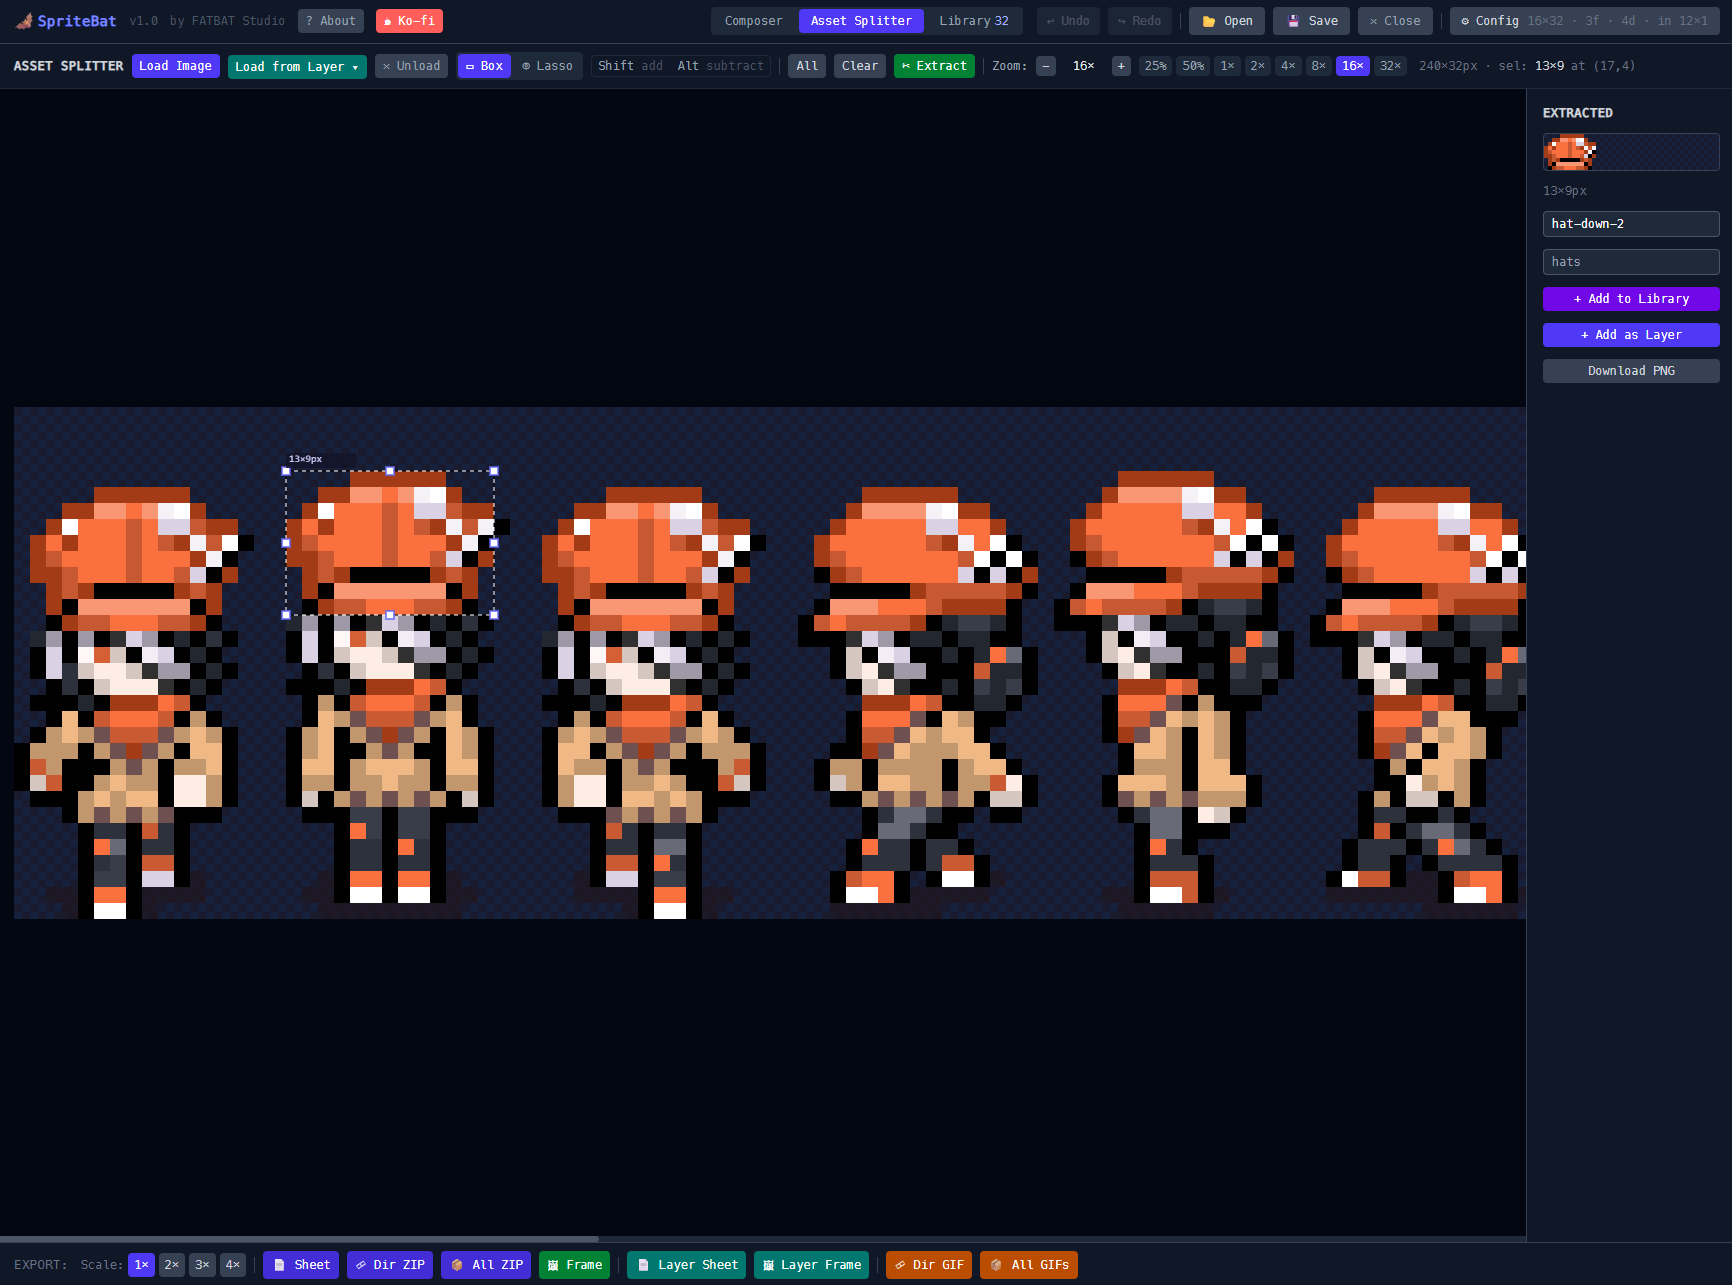
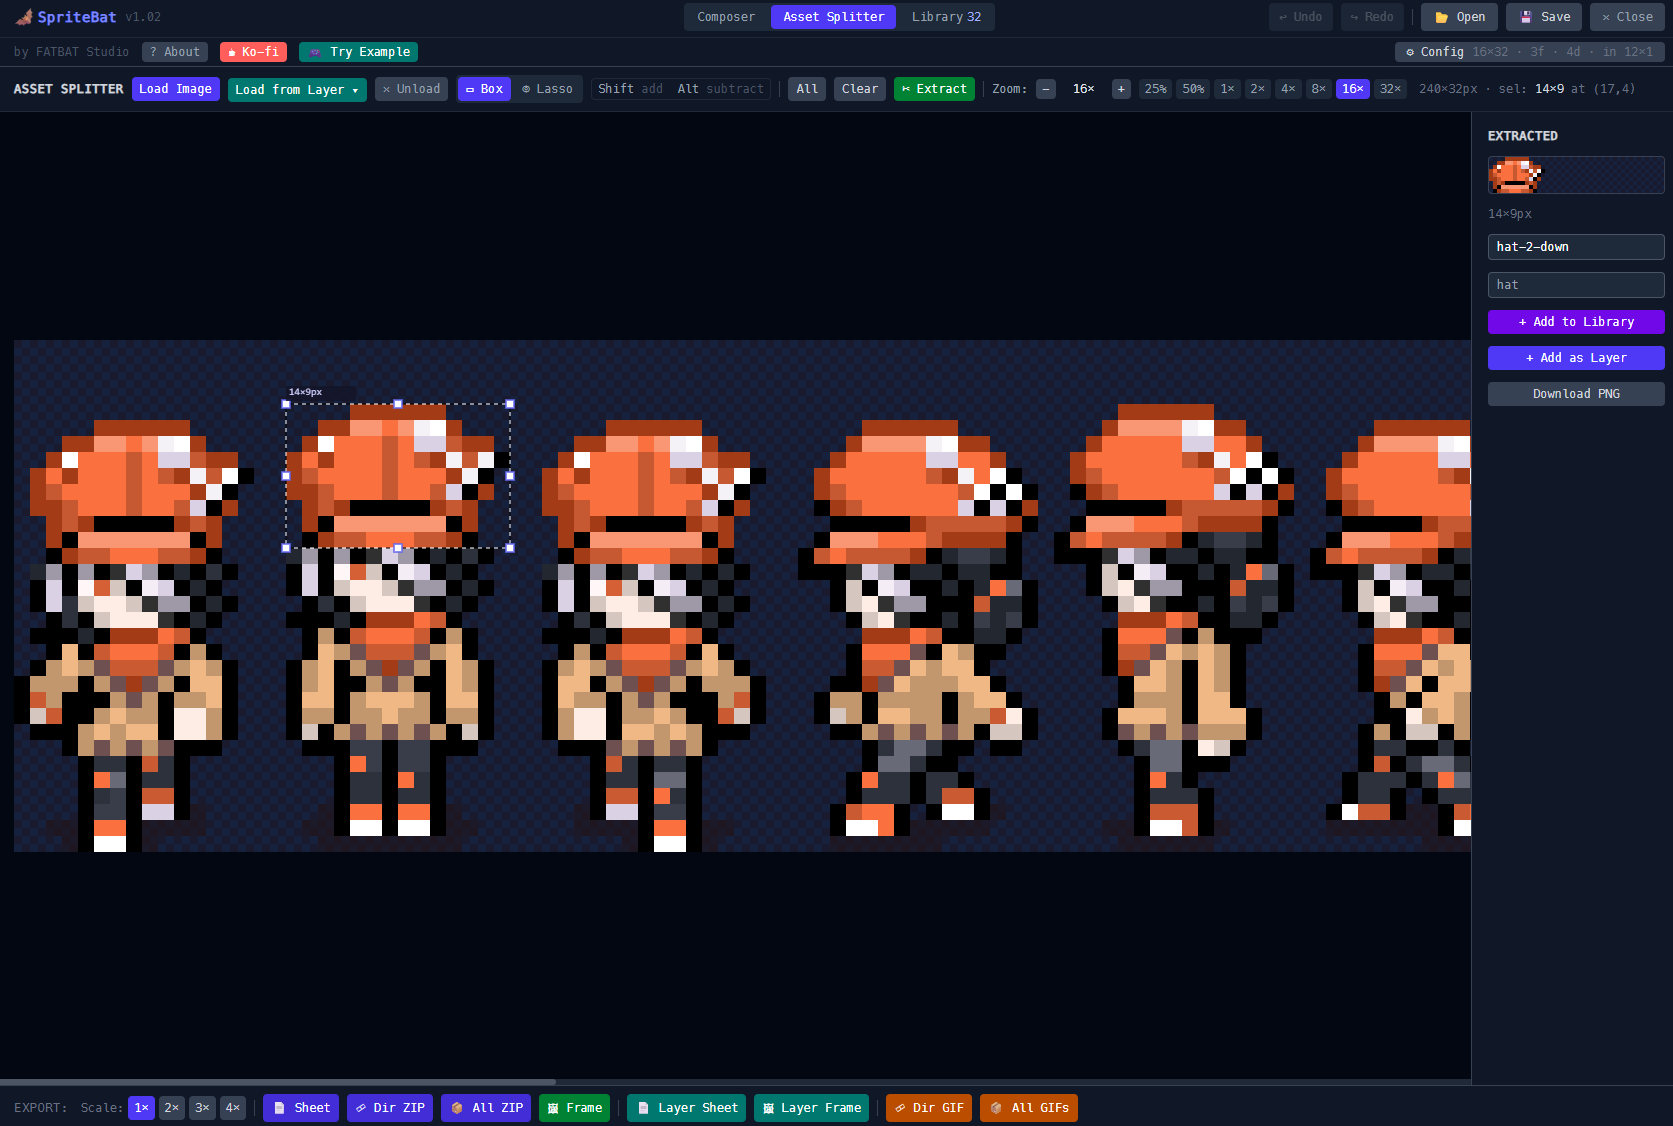
updated to version 1.02, fixed UI on smaller screens

Changed region(s): [[0.0, 0.0, 0.9946, 0.7771], [0.0, 0.9325, 0.8703, 1.0]]

diff --git a/src/App.tsx b/src/App.tsx
@@ -194,142 +194,149 @@ function App() {
 
   return (
     <div className="flex flex-col h-screen bg-gray-950 text-gray-100 overflow-hidden select-none">
-      {/* ── Top header bar ── */}
-      <header className="relative flex items-center px-4 py-2 bg-gray-900 border-b border-gray-700 flex-shrink-0">
-        <div className="flex items-center gap-3">
-          <span className="font-bold text-indigo-400 text-sm tracking-wide flex items-center gap-1"><img src="/bat-emoji.png" alt="🦇" className="w-5 h-5" style={{ imageRendering: 'auto' }} /> SpriteBat</span>
-          <span className="text-gray-600 text-xs">v1.01</span>
-          <a href="https://eidolware.com/about/" target="_blank" rel="noopener noreferrer" className="text-gray-600 hover:text-gray-400 text-xs transition-colors">by FATBAT Studio</a>
-          <button
-            onClick={() => setShowAbout(true)}
-            className="text-xs bg-gray-700 hover:bg-gray-600 text-gray-400 hover:text-white px-2 py-1 rounded transition-colors"
-            title="About SpriteBat"
-          >
-            ? About
-          </button>
-          <a
-            href="https://ko-fi.com/fatbatstudio"
-            target="_blank"
-            rel="noopener noreferrer"
-            className="text-xs bg-[#FF5E5B] hover:bg-[#e04e4b] text-white px-2 py-1 rounded transition-colors"
-            title="Support on Ko-fi"
-          >
-            ☕ Ko-fi
-          </a>
-          <button
-            onClick={() => setShowTutorial(true)}
-            className="text-xs bg-teal-700 hover:bg-teal-600 text-white px-2 py-1 rounded transition-colors"
-            title="Load an example project to explore SpriteBat"
-          >
-            🎮 Try Example
-          </button>
-        </div>
+      {/* ── Top header bar (two rows) ── */}
+      <header className="flex flex-col bg-gray-900 border-b border-gray-700 flex-shrink-0">
+        {/* Row 1: Logo + Tabs + Project actions */}
+        <div className="flex items-center px-4 py-1.5">
+          {/* Left: branding */}
+          <div className="flex-1 flex items-center gap-2">
+            <span className="font-bold text-indigo-400 text-sm tracking-wide flex items-center gap-1"><img src="/bat-emoji.png" alt="🦇" className="w-5 h-5" style={{ imageRendering: 'auto' }} /> SpriteBat</span>
+            <span className="text-gray-600 text-xs">v1.02</span>
+          </div>
 
-        {/* Tab switcher — absolutely centred so it's always in the middle of the bar */}
-        <div className="absolute left-1/2 -translate-x-1/2 flex gap-1 bg-gray-800 p-0.5 rounded">
-          <button
-            onClick={() => typedDispatch({ type: 'SET_TAB', tab: 'composer' })}
-            className={`text-xs px-3 py-1 rounded transition-colors ${
-              state.activeTab === 'composer'
-                ? 'bg-indigo-600 text-white'
-                : 'text-gray-400 hover:text-white'
-            }`}
-          >
-            Composer
-          </button>
-          <button
-            onClick={() => typedDispatch({ type: 'SET_TAB', tab: 'splitter' })}
-            className={`text-xs px-3 py-1 rounded transition-colors ${
-              state.activeTab === 'splitter'
-                ? 'bg-indigo-600 text-white'
-                : 'text-gray-400 hover:text-white'
-            }`}
-          >
-            Asset Splitter
-          </button>
-          <button
-            onClick={() => typedDispatch({ type: 'SET_TAB', tab: 'library' })}
-            className={`text-xs px-3 py-1 rounded transition-colors ${
-              state.activeTab === 'library'
-                ? 'bg-indigo-600 text-white'
-                : 'text-gray-400 hover:text-white'
-            }`}
-          >
-            Library
-            {state.library.length > 0 && (
-              <span className="ml-1 text-indigo-300 tabular-nums">{state.library.length}</span>
+          {/* Center: tab switcher */}
+          <div className="flex justify-center">
+            <div className="flex gap-1 bg-gray-800 p-0.5 rounded">
+              <button
+                onClick={() => typedDispatch({ type: 'SET_TAB', tab: 'composer' })}
+                className={`text-xs px-3 py-1 rounded transition-colors ${
+                  state.activeTab === 'composer'
+                    ? 'bg-indigo-600 text-white'
+                    : 'text-gray-400 hover:text-white'
+                }`}
+              >
+                Composer
+              </button>
+              <button
+                onClick={() => typedDispatch({ type: 'SET_TAB', tab: 'splitter' })}
+                className={`text-xs px-3 py-1 rounded transition-colors ${
+                  state.activeTab === 'splitter'
+                    ? 'bg-indigo-600 text-white'
+                    : 'text-gray-400 hover:text-white'
+                }`}
+              >
+                Asset Splitter
+              </button>
+              <button
+                onClick={() => typedDispatch({ type: 'SET_TAB', tab: 'library' })}
+                className={`text-xs px-3 py-1 rounded transition-colors ${
+                  state.activeTab === 'library'
+                    ? 'bg-indigo-600 text-white'
+                    : 'text-gray-400 hover:text-white'
+                }`}
+              >
+                Library
+                {state.library.length > 0 && (
+                  <span className="ml-1 text-indigo-300 tabular-nums">{state.library.length}</span>
+                )}
+              </button>
+            </div>
+          </div>
+
+          {/* Right: undo/redo + project actions */}
+          <div className="flex-1 flex items-center gap-2 justify-end">
+            <button
+              onClick={() => typedDispatch({ type: 'UNDO' })}
+              disabled={!canUndo}
+              className="text-xs bg-gray-700 hover:bg-gray-600 disabled:opacity-30 disabled:cursor-not-allowed text-gray-300 px-2.5 py-1.5 rounded flex items-center gap-1"
+              title={`Undo (Ctrl+Z) — ${undoState.past.length} step${undoState.past.length !== 1 ? 's' : ''} available`}
+            >
+              ↩ Undo
+            </button>
+            <button
+              onClick={() => typedDispatch({ type: 'REDO' })}
+              disabled={!canRedo}
+              className="text-xs bg-gray-700 hover:bg-gray-600 disabled:opacity-30 disabled:cursor-not-allowed text-gray-300 px-2.5 py-1.5 rounded flex items-center gap-1"
+              title={`Redo (Ctrl+Y) — ${undoState.future.length} step${undoState.future.length !== 1 ? 's' : ''} available`}
+            >
+              ↪ Redo
+            </button>
+
+            <div className="w-px h-4 bg-gray-700" />
+
+            {projectError && (
+              <span className="text-xs text-red-400">{projectError}</span>
             )}
-          </button>
+
+            <input
+              ref={loadInputRef}
+              type="file"
+              accept=".spritebat"
+              className="hidden"
+              onChange={handleLoad}
+            />
+
+            <button
+              onClick={() => loadInputRef.current?.click()}
+              disabled={!!projectBusy}
+              className="text-xs bg-gray-700 hover:bg-gray-600 disabled:opacity-50 text-gray-300 px-3 py-1.5 rounded flex items-center gap-1"
+              title="Open a .spritebat project file"
+            >
+              {projectBusy === 'loading' ? '⏳' : '📂'} Open
+            </button>
+
+            <button
+              onClick={handleSave}
+              disabled={!!projectBusy || (state.layers.length === 0 && state.library.length === 0)}
+              className="text-xs bg-gray-700 hover:bg-gray-600 disabled:opacity-50 text-gray-300 px-3 py-1.5 rounded flex items-center gap-1"
+              title="Save project as .spritebat"
+            >
+              {projectBusy === 'saving' ? '⏳' : '💾'} Save
+            </button>
+
+            <button
+              onClick={handleClose}
+              disabled={!!projectBusy}
+              className="text-xs bg-gray-700 hover:bg-red-900 hover:text-red-300 disabled:opacity-50 text-gray-400 px-3 py-1.5 rounded flex items-center gap-1"
+              title="Close project — clears all layers and library"
+            >
+              ✕ Close
+            </button>
+          </div>
         </div>
 
-        <div className="flex items-center gap-2 ml-auto">
-          {/* Undo / Redo */}
-          <button
-            onClick={() => typedDispatch({ type: 'UNDO' })}
-            disabled={!canUndo}
-            className="text-xs bg-gray-700 hover:bg-gray-600 disabled:opacity-30 disabled:cursor-not-allowed text-gray-300 px-2.5 py-1.5 rounded flex items-center gap-1"
-            title={`Undo (Ctrl+Z) — ${undoState.past.length} step${undoState.past.length !== 1 ? 's' : ''} available`}
-          >
-            ↩ Undo
-          </button>
-          <button
-            onClick={() => typedDispatch({ type: 'REDO' })}
-            disabled={!canRedo}
-            className="text-xs bg-gray-700 hover:bg-gray-600 disabled:opacity-30 disabled:cursor-not-allowed text-gray-300 px-2.5 py-1.5 rounded flex items-center gap-1"
-            title={`Redo (Ctrl+Y) — ${undoState.future.length} step${undoState.future.length !== 1 ? 's' : ''} available`}
-          >
-            ↪ Redo
-          </button>
+        {/* Row 2: Secondary links + Config */}
+        <div className="flex items-center justify-between px-4 py-1 border-t border-gray-800">
+          <div className="flex items-center gap-3">
+            <a href="https://eidolware.com/about/" target="_blank" rel="noopener noreferrer" className="text-gray-600 hover:text-gray-400 text-xs transition-colors">by FATBAT Studio</a>
+            <button
+              onClick={() => setShowAbout(true)}
+              className="text-xs bg-gray-700 hover:bg-gray-600 text-gray-400 hover:text-white px-2 py-0.5 rounded transition-colors"
+              title="About SpriteBat"
+            >
+              ? About
+            </button>
+            <a
+              href="https://ko-fi.com/fatbatstudio"
+              target="_blank"
+              rel="noopener noreferrer"
+              className="text-xs bg-[#FF5E5B] hover:bg-[#e04e4b] text-white px-2 py-0.5 rounded transition-colors"
+              title="Support on Ko-fi"
+            >
+              ☕ Ko-fi
+            </a>
+            <button
+              onClick={() => setShowTutorial(true)}
+              className="text-xs bg-teal-700 hover:bg-teal-600 text-white px-2 py-0.5 rounded transition-colors"
+              title="Load an example project to explore SpriteBat"
+            >
+              🎮 Try Example
+            </button>
+          </div>
 
-          <div className="w-px h-4 bg-gray-700" />
-
-          {/* Save / Load project */}
-          {projectError && (
-            <span className="text-xs text-red-400">{projectError}</span>
-          )}
-
-          {/* Hidden file input for loading */}
-          <input
-            ref={loadInputRef}
-            type="file"
-            accept=".spritebat"
-            className="hidden"
-            onChange={handleLoad}
-          />
-
-          <button
-            onClick={() => loadInputRef.current?.click()}
-            disabled={!!projectBusy}
-            className="text-xs bg-gray-700 hover:bg-gray-600 disabled:opacity-50 text-gray-300 px-3 py-1.5 rounded flex items-center gap-1"
-            title="Open a .spritebat project file"
-          >
-            {projectBusy === 'loading' ? '⏳' : '📂'} Open
-          </button>
-
-          <button
-            onClick={handleSave}
-            disabled={!!projectBusy || (state.layers.length === 0 && state.library.length === 0)}
-            className="text-xs bg-gray-700 hover:bg-gray-600 disabled:opacity-50 text-gray-300 px-3 py-1.5 rounded flex items-center gap-1"
-            title="Save project as .spritebat"
-          >
-            {projectBusy === 'saving' ? '⏳' : '💾'} Save
-          </button>
-
-          <button
-            onClick={handleClose}
-            disabled={!!projectBusy}
-            className="text-xs bg-gray-700 hover:bg-red-900 hover:text-red-300 disabled:opacity-50 text-gray-400 px-3 py-1.5 rounded flex items-center gap-1"
-            title="Close project — clears all layers and library"
-          >
-            ✕ Close
-          </button>
-
-          <div className="w-px h-4 bg-gray-700" />
-
-          {/* Project config button */}
           <button
             onClick={() => typedDispatch({ type: 'TOGGLE_CONFIG' })}
-            className="text-xs bg-gray-700 hover:bg-gray-600 text-gray-300 px-3 py-1.5 rounded flex items-center gap-1"
+            className="text-xs bg-gray-700 hover:bg-gray-600 text-gray-300 px-3 py-0.5 rounded flex items-center gap-1"
           >
             ⚙ Config
             <span className="text-gray-500 ml-1">
@@ -397,12 +404,12 @@ function App() {
           className="fixed inset-0 z-50 flex items-center justify-center bg-black/60"
           onClick={e => e.target === e.currentTarget && setShowAbout(false)}
         >
-          <div className="bg-gray-900 border border-gray-700 rounded-xl shadow-2xl flex flex-col gap-4 p-6" style={{ maxWidth: 520, width: '90vw' }}>
+          <div className="bg-gray-900 border border-gray-700 rounded-xl shadow-2xl flex flex-col gap-4 p-6" style={{ maxWidth: 680, width: '90vw' }}>
             <div className="flex items-center justify-between">
               <div className="flex items-center gap-2">
                 <img src="/bat-emoji.png" alt="🦇" className="w-6 h-6" style={{ imageRendering: 'auto' }} />
                 <span className="font-bold text-indigo-400 text-base tracking-wide">SpriteBat</span>
-                <span className="text-gray-500 text-xs">v1.01</span>
+                <span className="text-gray-500 text-xs">v1.02</span>
               </div>
               <button onClick={() => setShowAbout(false)} className="text-gray-500 hover:text-white text-lg leading-none">✕</button>
             </div>
@@ -499,7 +506,8 @@ function App() {
             <p className="text-sm text-gray-300 leading-relaxed">
               Load an example character project to explore SpriteBat's features. This project includes layered sprite sheets
               for a modular character — try toggling layers, adjusting HSL colors, changing offsets, and exporting to see how
-              SpriteBat brings everything together.
+              SpriteBat brings everything together. There's also a hat asset in the Library you can add as a new layer to
+              practice positioning and per-frame offsets.
             </p>
 
             <p className="text-sm text-gray-400 leading-relaxed">

diff --git a/src/components/MainCanvas.tsx b/src/components/MainCanvas.tsx
@@ -363,6 +363,7 @@ export function MainCanvas({ state, dispatch, cache }: MainCanvasProps) {
                 height: displayHeight,
                 cursor: selectedLayer ? 'crosshair' : 'default',
                 imageRendering: canvasZoom >= 1 ? 'pixelated' : 'auto',
+                touchAction: 'none',
               }}
               onPointerDown={onPointerDown}
               onPointerMove={onPointerMove}
